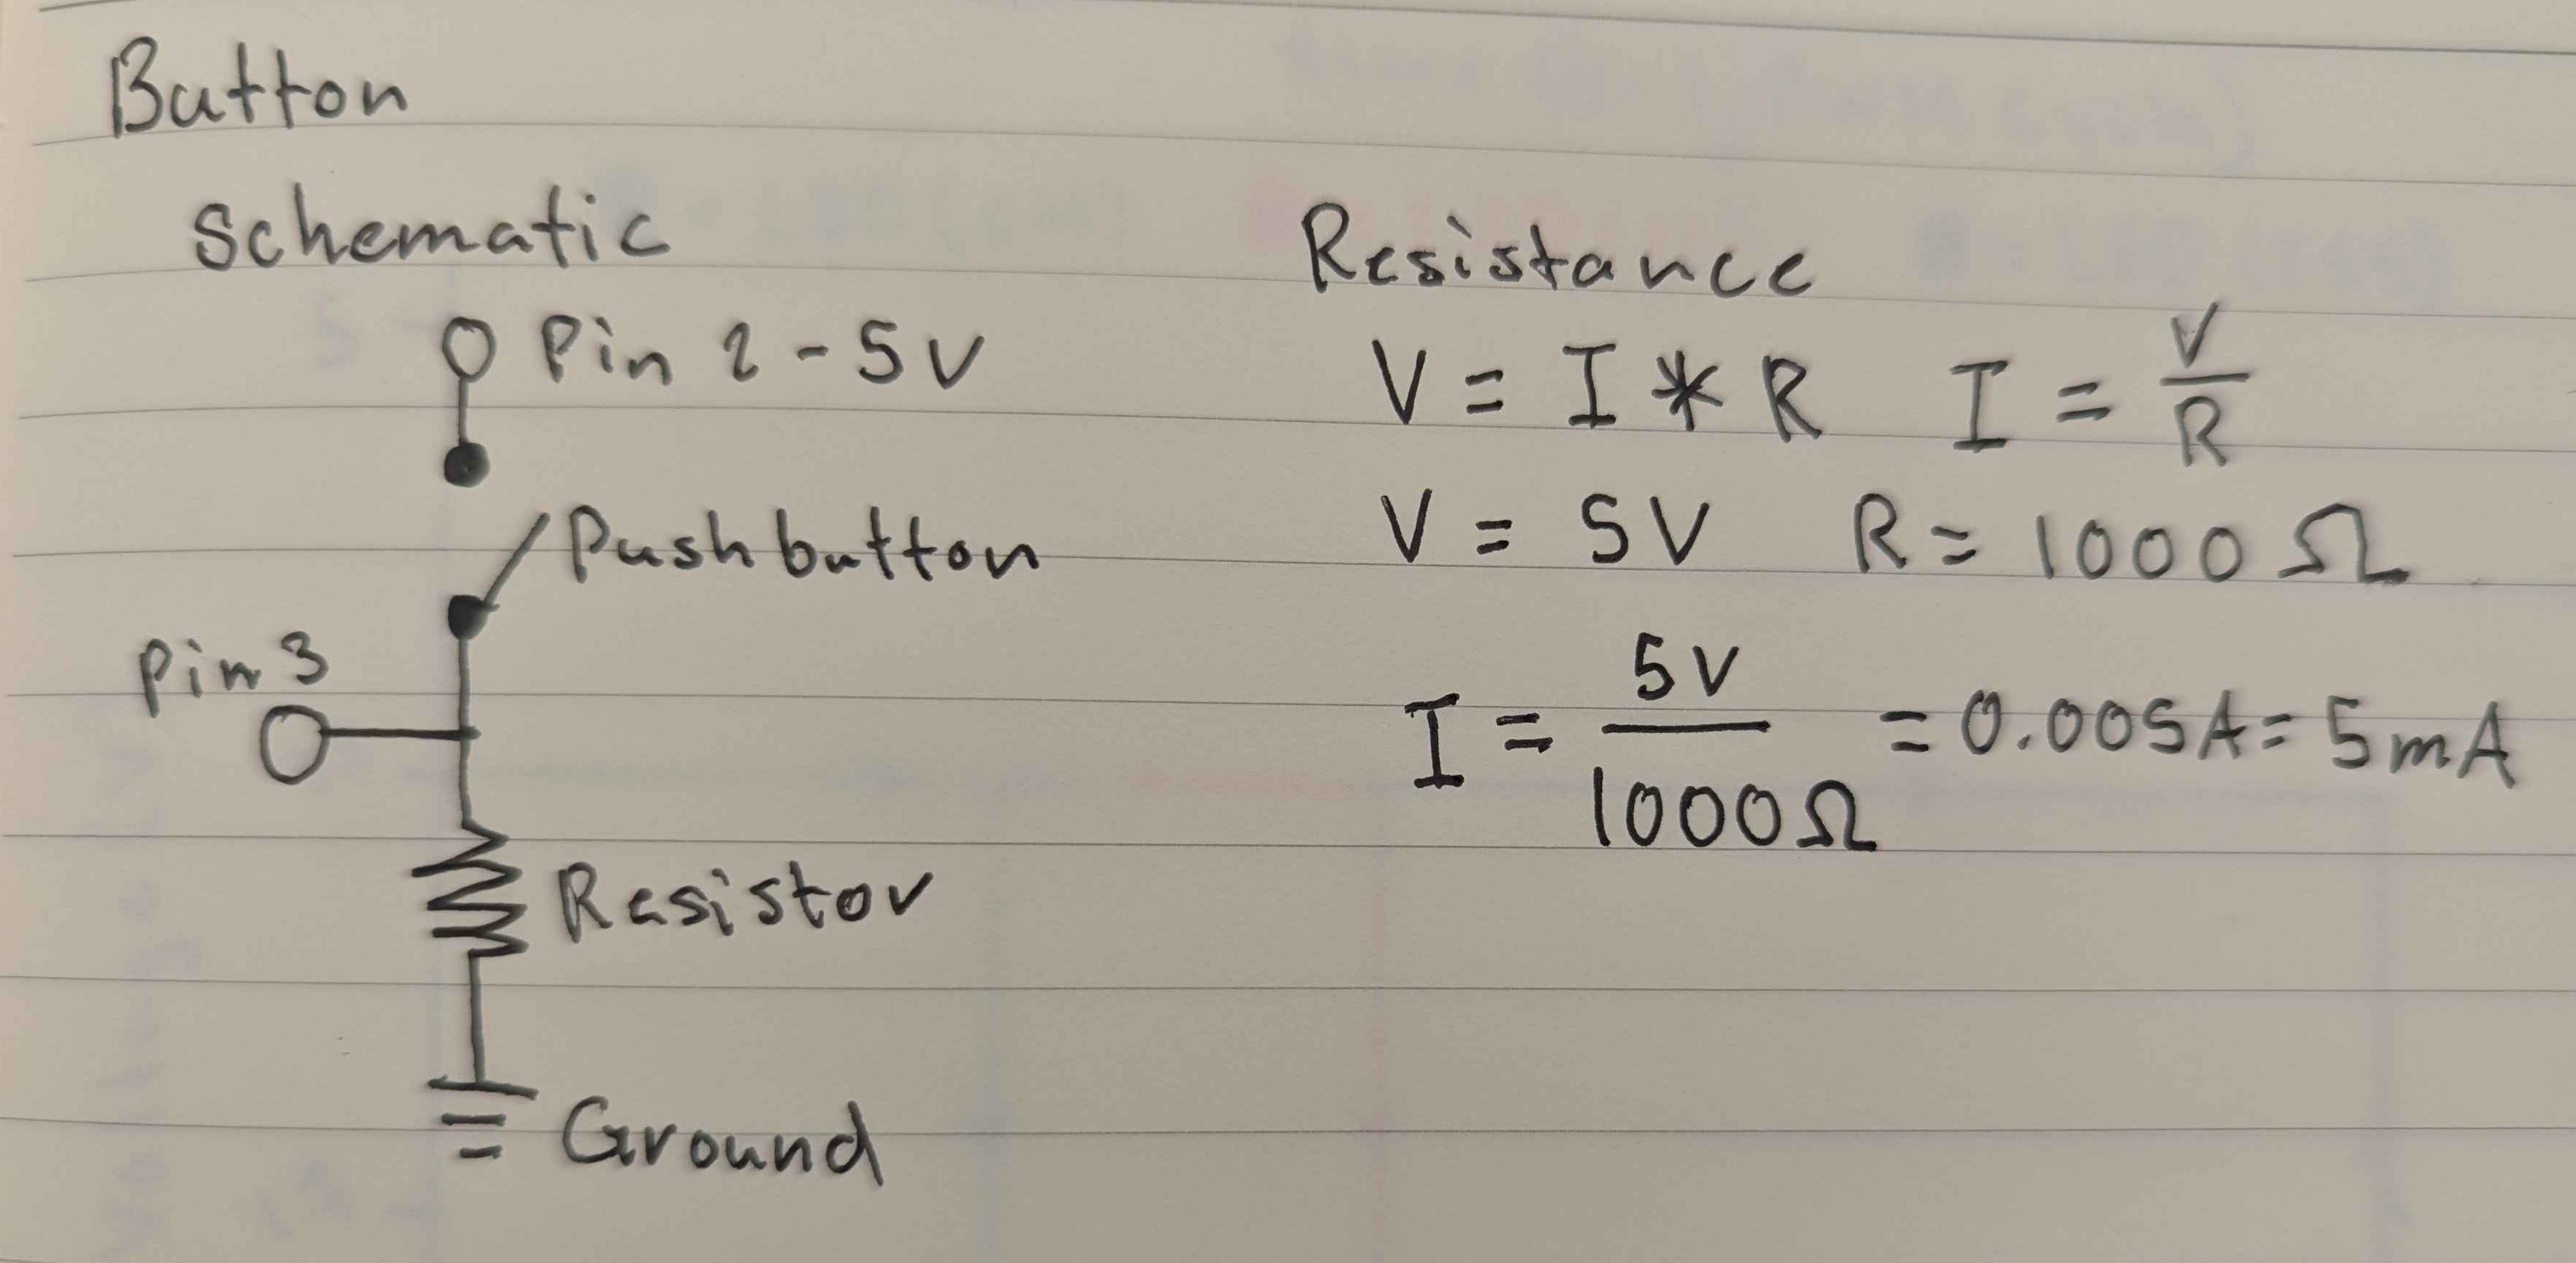
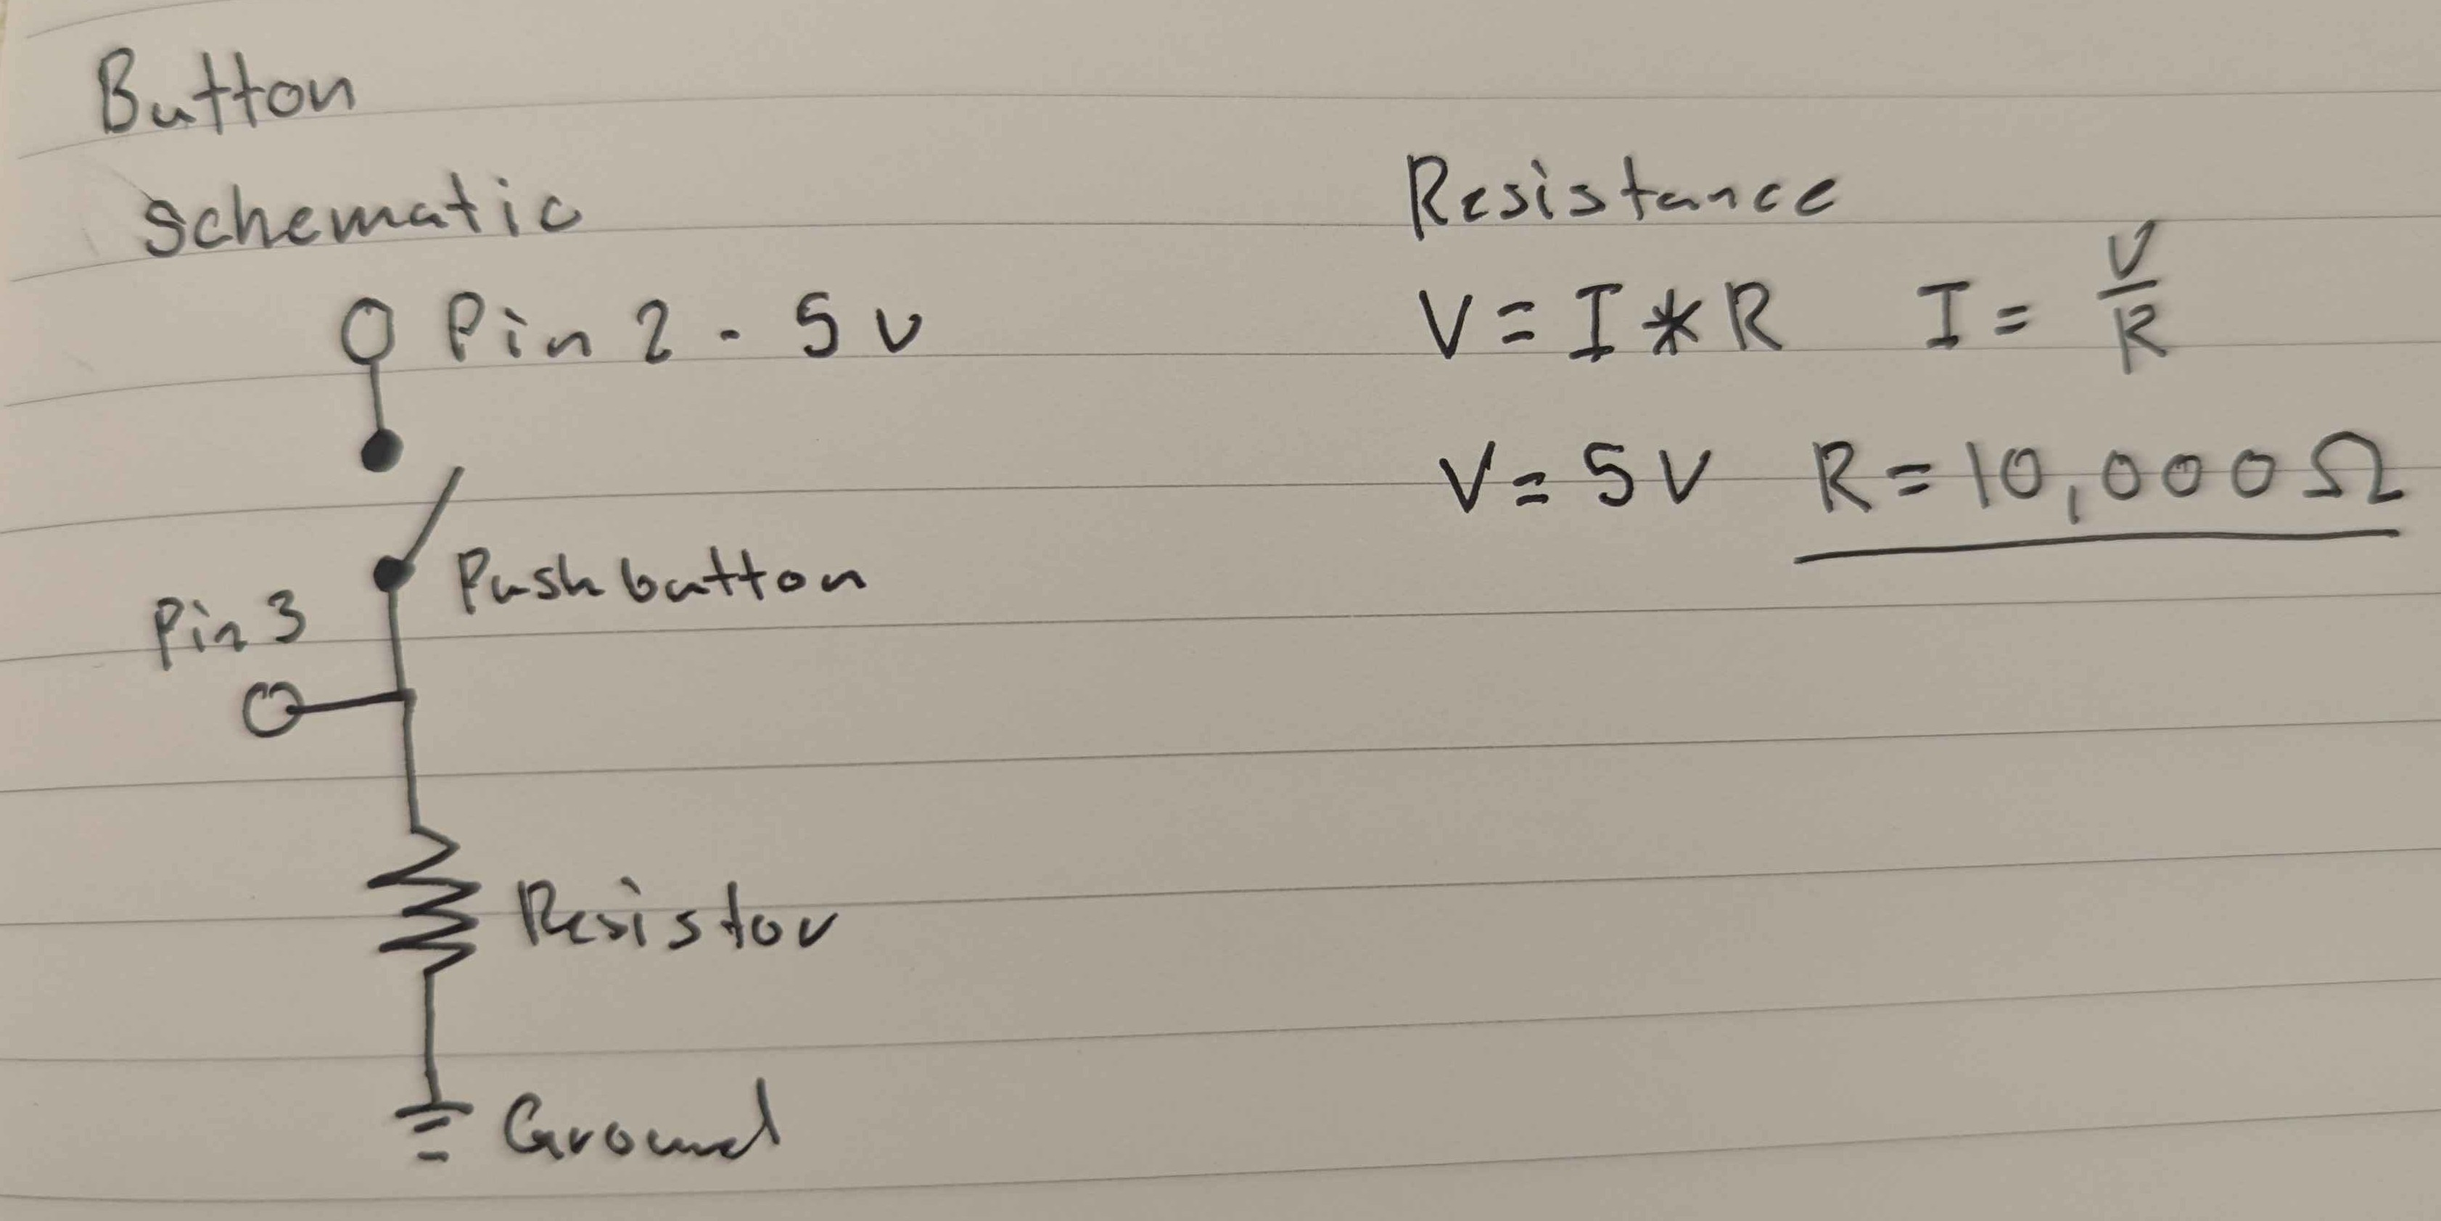
Updated button

diff --git a/a2.html b/a2.html
@@ -59,7 +59,7 @@
               <img src="imgs/FadeButton.jpg">
               <article>
                 The button, being the newest component for this assignment, does
-                not have a voltage drop like the LEDs. However, we use a 1000-ohm
+                not have a voltage drop like the LEDs. However, we use a 10,000-ohm
                 resistor instead, ensuring the circuit is both safe but also efficient
                 when it comes to battery peservation.
               </article>
